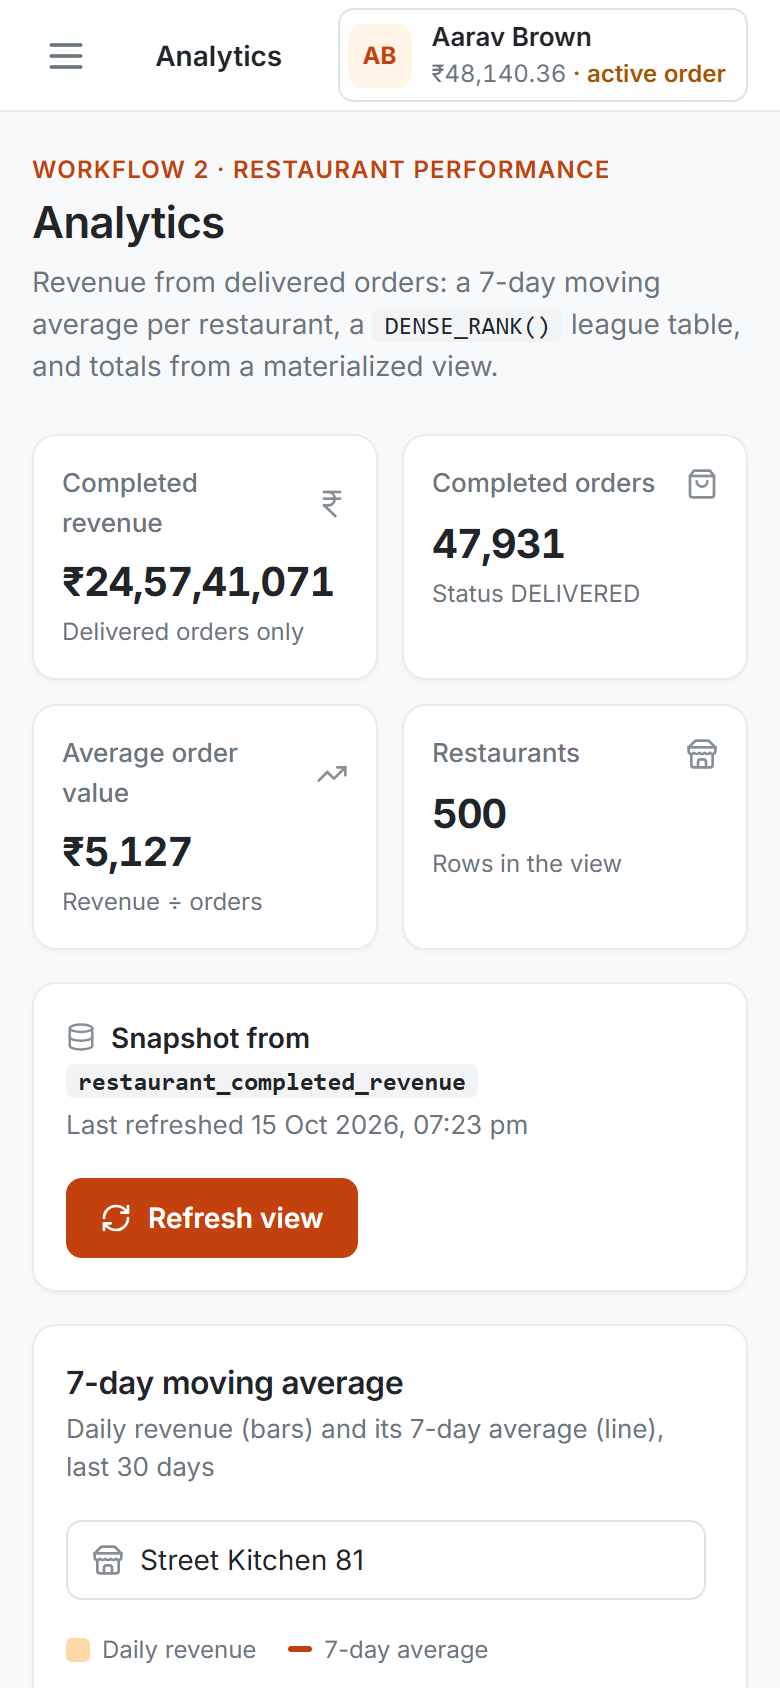
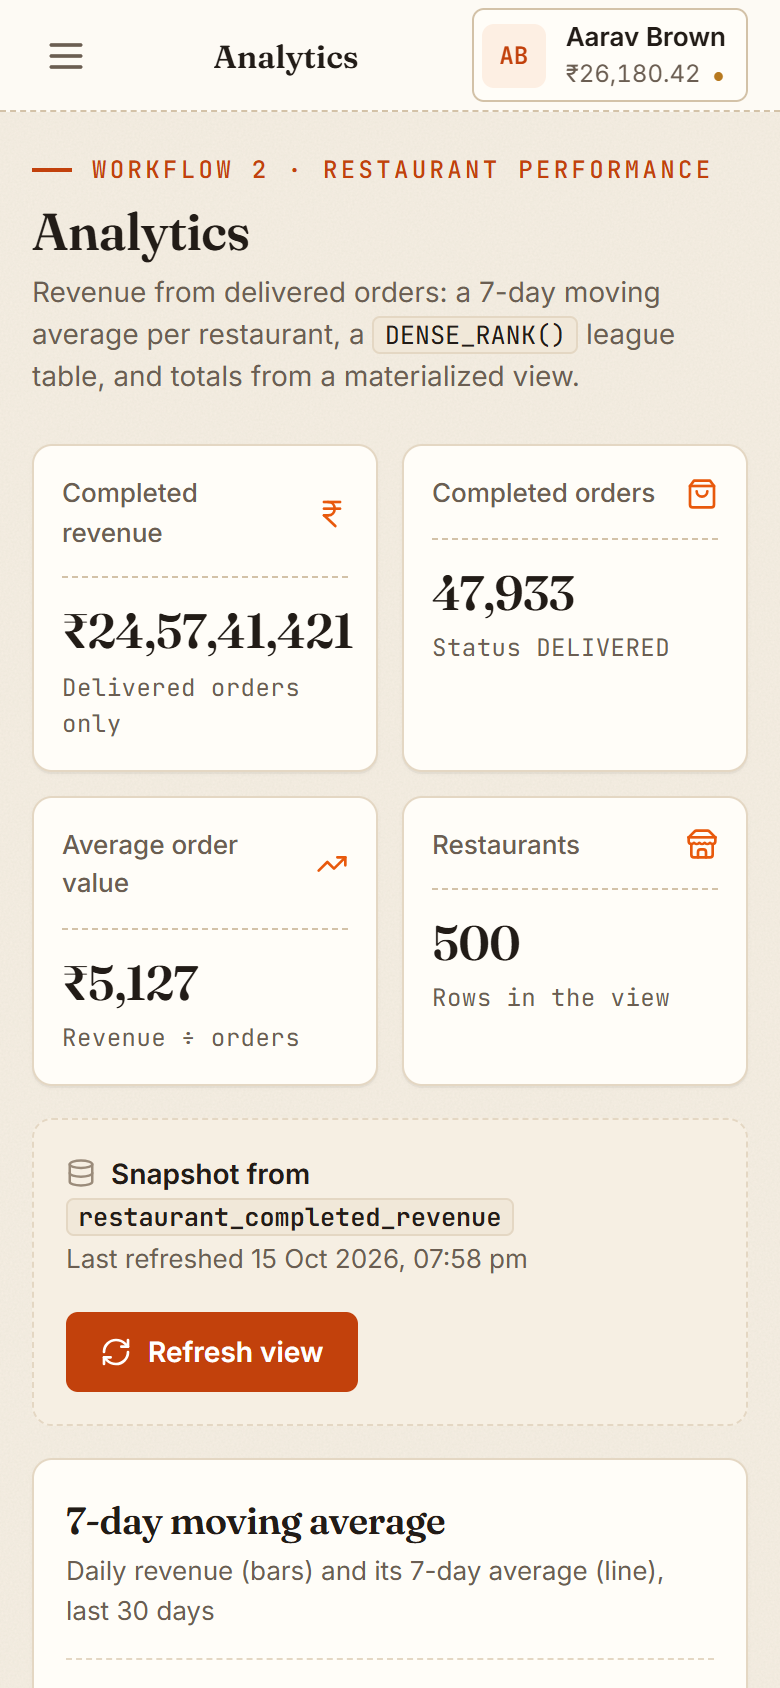
docs+ui: Kitchen Ticket style guide, screenshots, phone top-bar polish (Nisarg)
- style_guide.md rewritten for the Kitchen Ticket concept (palette, three
  type voices, motifs, motion, responsive rules)
- README: design summary, PAID/VOID gallery, phone shots, contribution
- 12 fresh screenshots captured with reduced motion (final frames)
- phones: board figures scale instead of breaking; top bar keeps one line
  for title and actor (active order shown as a dot)

diff --git a/web/src/kitchen.css b/web/src/kitchen.css
@@ -314,6 +314,15 @@ td { border-bottom-color: var(--border); }
 
 @media (max-width: 767px) {
   .date-stamp { display: none; }
+  /* Board figures shrink with the screen instead of breaking mid-number. */
+  .board .stat-value { font-size: clamp(20px, 6.2vw, 28px); white-space: nowrap; overflow-wrap: normal; }
+  /* Top bar on phones: one line each for title and actor; the active-order
+     note becomes a dot so the picker never grows taller than the bar. */
+  .breadcrumbs { min-width: 0; overflow: hidden; }
+  .breadcrumbs strong { overflow: hidden; text-overflow: ellipsis; white-space: nowrap; }
+  .actor-button .profile-copy span { white-space: nowrap; }
+  .actor-button .active-dot { font-size: 0; }
+  .actor-button .active-dot::after { content: '●'; font-size: 10px; margin-left: 6px; color: var(--warning); }
   .page-title-row h1 { font-size: 26px; }
   .stat-value { font-size: 24px; }
   .stamp.big { font-size: 17px; top: 14px; right: 14px; }

diff --git a/docs/design/style_guide.md b/docs/design/style_guide.md
@@ -1,87 +1,107 @@
-# Style Guide
+# Style Guide: "Kitchen Ticket"
 
-**Owner:** Nisarg Bhojani. The design system is plain CSS built on design tokens:
+**Owner:** Nisarg Bhojani · Spec: [2026-10-15-kitchen-ticket-design.md](2026-10-15-kitchen-ticket-design.md)
 
-- **`web/src/theme.css`** holds every token as a CSS custom property, and is the single source of truth.
-- **`web/src/theme.js`** mirrors the colour values for Recharts and Leaflet, which cannot read CSS variables.
-- **`web/src/styles.css`** (shell, shared components, Analytics/Map/Reviews) and **`web/src/screens.css`** (Browse, Place order, Wallet) use only the tokens.
+## Concept
 
-Mantine was planned at first and dropped: plain CSS kept the bundle small and needed no component rewrite. The UI upgrade spec is [2026-10-15-ui-upgrade-design.md](2026-10-15-ui-upgrade-design.md).
+**Every screen is a piece of restaurant paper.**
 
-## Colours
+| Screen | Paper it becomes |
+|---|---|
+| An order | A kitchen order ticket (KOT): notched, perforated, stamped PAID or VOID |
+| Wallet history | A bank passbook: ruled ledger, printed amounts, a red margin rule |
+| Analytics | The day's board: big printed figures and medals |
+| Driver map | Dispatch slips |
+| Menu | A printed menu card with dotted leaders |
 
-The palette follows Mantine's colour scale. Three values were adjusted so text passes WCAG AA (4.5:1).
+Every visual choice follows from the metaphor:
+- serif figures, because bills are printed
+- mono codes, because tickets come from a thermal printer
+- stamps, because the kitchen stamps orders
+- perforations, because tickets tear off
 
-| Token | Hex | Used for |
+## Files
+
+| File | Role |
+|---|---|
+| `web/src/theme.css` | Design tokens: the single source of truth |
+| `web/src/theme.js` | The same colours for Recharts and Leaflet (which can't read CSS variables) |
+| `web/src/styles.css`, `web/src/screens.css` | Layout and components |
+| `web/src/kitchen.css` | The concept layer: type roles, paper, motifs, motion, one signature moment per screen |
+| `web/scripts/check-contrast.mjs` | `npm run check:contrast`: fails if any text/background token pair is below 4.5:1 |
+
+## Colour
+
+| Token | Hex | Role |
 |---|---|---|
-| `--brand` | `#E8590C` | Accent fills: active nav marker, chart series, map origin and radius, focus ring |
-| `--brand-strong` | `#C2410C` | Primary buttons and orange text (5.2:1 on white; `#E8590C` is only 3.6:1) |
-| `--brand-soft` | `#FFF4E6` | Active nav item, selected table row, avatar |
-| `--success` / `-strong` / `-soft` | `#2F9E44` / `#1F7A35` / `#EBFBEE` | CREDIT, DELIVERED, successful checkout, dietary tags |
-| `--danger` / `-strong` / `-soft` | `#E03131` / `#C92A2A` / `#FFF5F5` | DEBIT, errors, insufficient balance, spice level |
-| `--warning` / `-strong` / `-soft` | `#F08C00` / `#A35200` / `#FFF9DB` | PREPARING, "already has an active order", star ratings |
-| `--info` / `-strong` / `-soft` | `#1971C2` / `#1864AB` / `#E7F5FF` | DELIVERING, drivers on the map |
-| `--text` | `#212529` | Body text |
-| `--text-muted` | `#6C757D` | Secondary text (4.7:1; the first draft's `#868E96` is 3.3:1 and failed) |
-| `--text-faint` | `#868E96` | Icons and decoration only, never text |
-| `--surface` / `--page` | `#FFFFFF` / `#F8F9FA` | Cards / page background |
-| `--border` | `#E9ECEF` | Card, table and input borders |
+| `--page` | `#F6EFE3` | Warm paper (page), with a 2 % grain |
+| `--surface` | `#FFFDF8` | Ticket stock (cards) |
+| `--hover` / `--border` / `--border-strong` | `#F1E8D9` / `#E4D7C3` / `#D3C2A8` | Tracks, rules, perforations |
+| `--text` | `#221C17` | Ink (14.7:1 on paper) |
+| `--text-muted` | `#6B5E52` | Secondary text (5.5:1 on paper) |
+| `--brand` / `--brand-strong` / `--brand-soft` | `#E8590C` / `#C2410C` / `#FDEFE3` | Saffron: accent, buttons and orange text, selected states |
+| `--success*` | `#2E7D32` / `#25672A` / `#E7F2E3` | Curry leaf: CREDIT, DELIVERED, PAID |
+| `--danger*` | `#B23A12` / `#9A3110` / `#FBE9E2` | Chili: DEBIT, errors, VOID |
+| `--warning*` | `#B7791F` / `#8A5A12` / `#FBF0D9` | Turmeric: PREPARING, star ratings |
+| `--info*` | `#2B4C7E` / `#22406B` / `#E5ECF5` | Indigo ink: DELIVERING, drivers |
+| `--gold` / `--silver` / `--bronze` | `#E6C25A` / `#CBD2D9` / `#D9A273` | Medal ranks 1–3 |
 
-**Status pairs:** each status uses its `-strong` colour for text on its `-soft` background, so every badge passes 4.5:1.
+Every `-strong` colour is used for text on its `-soft` fill. All pairs pass WCAG AA (checked by the script).
 
-- PREPARING = warning
-- DELIVERING = info
-- DELIVERED = success
-- DEBIT = danger
-- CREDIT = success
+## Type: three voices, each with a job
 
-## Typography
+| Voice | Font | Used for |
+|---|---|---|
+| Printed | **Fraunces** (variable serif, optical sizes) | Page titles, every big number and money on tickets, rating score, menu dishes |
+| Ticket printer | **JetBrains Mono** | Eyebrows, table headers, order codes, times, stamps, captions, date stamp |
+| Interface | **Inter** | Labels, body text, buttons, inputs |
 
-- **Font:** Inter (Google Fonts, free), fallback `system-ui, sans-serif`.
-- **Scale:**
-  - page title 24/600
-  - section title 18/600
-  - card title 16/600
-  - body 14/400
-  - table 13/400
-  - caption 12/500
-  - nothing smaller than 12 px
-- **Stat values:** 28/700 (22 on phones).
-- **Money:** `tabular-nums`, right-aligned in tables, formatted `₹1,234.50` (Indian digit grouping via `en-IN`).
+**Scale:**
+- page title 30 / 600 serif
+- board figures 40 (phone: up to 28)
+- stat figures 32
+- section 18–19
+- body 14, table 13
+- caption 12
+- nothing below 12 px
 
-## Spacing and shape
+## Motifs
 
-- **Spacing:** 8 px grid (`--space-1` to `--space-4` = 8/16/24/32).
-- **Radius:** `--radius` 8 px (inputs, buttons, badges) and `--radius-lg` 12 px (cards).
-- **Borders and shadows:** 1 px `--border`, almost no shadow. Only menus and drawers float, with `--shadow-pop`.
-- **Content width:** max 1440 px. Form controls are 40 px tall. Every focusable element shows an orange focus ring.
+- **Perforation:** dashed rules under card headings, inside stat cards and between ticket sections.
+- **Ticket notches:** half-circle cut-outs on both edges (CSS mask). Used on the order result, the dispatch slips and the brand mark.
+- **Rubber stamp:** mono caps in an outlined box. Order statuses and DEBIT/CREDIT in tables; large rotated PAID / VOID on the order result.
+- **Passbook rule:** a red double margin line before the amount columns in Wallet history.
+- **Dotted leaders:** run from each dish to its price on the menu card.
+- **Tear-off pad:** the sidebar and top bar edges are perforated.
 
-## Identity
+## Motion
 
-- **Logo:** a solid orange square holding a utensils icon, plus the "BiteStream" wordmark in Inter 600 with the tagline "Food delivery console".
-- **Charts:** orange bars and lines on light grey gridlines.
-- **Map:** an orange origin pin with an orange dashed 5 km circle; drivers are blue dots.
-- **Stat cards:** a small monochrome icon instead of coloured tiles.
+| Moment | Behaviour |
+|---|---|
+| Page enter | Sections rise 10 px and fade, staggered 40 ms |
+| Stat figures | Count up (`CountUp`, ease-out, 0.7 s); later changes count from the previous value |
+| Order result | The ticket prints out of a slot; the stamp lands 0.45 s later with a slight overshoot |
+| Map origin | Saffron pulse, 2 s loop |
+| Rows and slips | 1–2 px lift on hover |
+
+Under `prefers-reduced-motion: reduce` every animation lands on its final frame, and count-ups show the final value immediately.
 
 ## Responsive
 
 | Width | Layout |
 |---|---|
-| ≥ 1200 px | Sidebar (248 px) + content; 4 stat cards per row; split layouts side by side |
+| ≥ 1200 px | Sidebar plus content; 4 stat cards per row; the Analytics chart stays beside the ranking (sticky) |
 | 1024–1199 px | 2 stat cards per row; chart and table stack |
-| 768–1023 px | Sidebar becomes a 76 px icon rail; the map list moves below the map |
-| < 768 px | Sidebar hidden. A top bar has a burger button that opens the navigation as a drawer (Esc or a backdrop click closes it). Cards stack, tables scroll sideways, segmented tabs fill the width. No horizontal page scroll at 390 px. |
+| 768–1023 px | Icon-rail sidebar; map list below the map |
+| < 768 px | Burger drawer; board figures scale down; the top bar keeps one line for the title and one for the actor (active order shown as a dot); no horizontal scroll at 390 px |
 
-## Reusable components
+## Components
 
-| Component | File | Purpose |
-|---|---|---|
-| App shell, `Sidebar` | `App.jsx`, `components/Sidebar.jsx` | Navigation, brand, API status, phone drawer |
-| `ActorPicker` | `components/ActorPicker.jsx` | "Acting as" customer with wallet balance and active-order flag |
-| `RestaurantPicker` | `components/RestaurantPicker.jsx` | Searchable restaurant select used on Place order, Analytics, Map and Reviews |
-| `Panel`, `StatCard` | `components/Panel.jsx`, `components/StatCard.jsx` | Card with heading; big number + label |
-| `StatusBadge`, `ActionBadge` | `components/ui.jsx` | Order status and DEBIT/CREDIT pills |
-| `Pagination`, `SkeletonRows`, `Drawer`, `DetailList` | `components/ui.jsx` | Server-side paging, loading rows, record detail |
-| `EmptyState`, `ErrorBanner` | `components/ui.jsx` | Never a blank page; friendly error with Retry |
-| Segmented control | `.tabs` / `.tab` | Browse entity tabs, Reviews scope |
-| Menu accordion | `.menu-accordion` (Reviews) | Category → items → add-ons; optional fields only when present |
+| Component | Purpose |
+|---|---|
+| `StatCard` | A small receipt. Optional `countTo` and `format` count the figure up |
+| `CountUp` | Animated number that respects reduced motion |
+| `StatusBadge`, `ActionBadge` | Rendered as stamps |
+| `Panel` | Ticket-stock card with a perforated heading |
+| `RestaurantPicker`, `ActorPicker` | Searchable selects |
+| `Pagination`, `SkeletonRows`, `Drawer`, `DetailList`, `EmptyState`, `ErrorBanner` | Shared states; never a blank page |

diff --git a/README.md b/README.md
@@ -39,9 +39,11 @@ A web front end for the inherited **BiteStream** food-delivery backend (PostgreS
 
 **Demo user switching:** the header's **"Acting as"** picker chooses the customer (no login). It shows their wallet balance and whether they have an active order, and the choice is remembered across reloads.
 
-**Design:** one token-based design system (`web/src/theme.css`) following [docs/design/style_guide.md](docs/design/style_guide.md): warm orange brand, Inter, WCAG-AA text contrast, and a burger drawer on phones.
+**Design: "Kitchen Ticket".** Every screen is a piece of restaurant paper: an order prints as a kitchen order ticket stamped PAID or VOID, the wallet is a passbook, analytics is the day's board, drivers are dispatch slips, and the menu is a printed menu card. Paper-and-ink palette with kitchen status colours (WCAG AA, checked by `npm run check:contrast` in `web/`), Fraunces / Inter / JetBrains Mono, purposeful motion that respects reduced-motion settings, and a burger drawer on phones. See [docs/design/style_guide.md](docs/design/style_guide.md).
 
-![Place order: success with the trigger-written audit row](docs/screenshots/place_order_desktop.png)
+| Order placed (PAID) | Order refused (VOID) |
+|---|---|
+| ![Place order: success with the trigger-written audit row](docs/screenshots/place_order_desktop.png) | ![Place order: refused by the partial unique index](docs/screenshots/place_order_refused_desktop.png) |
 
 | Analytics | Live driver map |
 |---|---|
@@ -49,7 +51,7 @@ A web front end for the inherited **BiteStream** food-delivery backend (PostgreS
 | **Reviews & menus** | **Wallet history** |
 | ![Reviews & menus](docs/screenshots/reviews_menus_desktop.png) | ![Wallet history](docs/screenshots/wallet_history_desktop.png) |
 
-<img src="docs/screenshots/browse_mobile.png" alt="Browse on a phone" width="220"> <img src="docs/screenshots/analytics_mobile.png" alt="Analytics on a phone" width="220"> <img src="docs/screenshots/nav_drawer_mobile.png" alt="Navigation drawer on a phone" width="220">
+<img src="docs/screenshots/browse_mobile.png" alt="Browse on a phone" width="220"> <img src="docs/screenshots/analytics_mobile.png" alt="Analytics on a phone" width="220"> <img src="docs/screenshots/nav_drawer_mobile.png" alt="Navigation drawer on a phone" width="220"> <img src="docs/screenshots/reviews_mobile.png" alt="Reviews and menu on a phone" width="220">
 
 ## 2. Running it
 
@@ -261,6 +263,7 @@ Every change is marked `[Team 26]` in the code. The full reasoning and evidence 
         ├── context/          # "Acting as" customer
         ├── services/api.js   # API client
         ├── theme.css         # design tokens (colours, type, spacing); theme.js mirrors colours for charts/map
+        ├── kitchen.css       # "Kitchen Ticket" concept layer: type roles, motifs, motion, signature moments
         ├── styles.css        # shell, shared components, Analytics / Map / Reviews
         ├── screens.css       # Browse, Place order, Wallet history
         └── router.js         # hash routing
@@ -272,7 +275,7 @@ Team 26. The allocation sheet lists four members; **Jyotiraditya Kumar is no lon
 
 | Member | Design | Code | Documentation |
 |---|---|---|---|
-| **Nisarg Bhojani** | Users, wireframes, Figma design system, visual QA | Design-token system (`theme.css`, `theme.js`) and restyle of all six screens (`styles.css`, `screens.css`), phone navigation drawer; UI-upgrade data fixes: per-restaurant 7-day series and stored `refreshed_at` (Analytics), one row per driver around real restaurants (Map), Mongo seeder linked to PostgreSQL restaurants and menu accordion (Reviews & menus), with 9 integration tests | Style guide, [UI upgrade spec](docs/design/2026-10-15-ui-upgrade-design.md) and [plan](docs/design/2026-10-15-ui-upgrade-plan.md), screenshots, demo video |
+| **Nisarg Bhojani** | Users, wireframes, Figma design system, visual QA | "Kitchen Ticket" design system: tokens (`theme.css`, `theme.js`), concept layer (`kitchen.css`), `CountUp`, contrast checker, restyle of all six screens, phone navigation drawer; fixed the Advance button placing an unwanted order; UI-upgrade data fixes: per-restaurant 7-day series and stored `refreshed_at` (Analytics), one row per driver around real restaurants (Map), Mongo seeder linked to PostgreSQL restaurants and menu accordion (Reviews & menus), with 9 integration tests | Style guide, [UI upgrade spec](docs/design/2026-10-15-ui-upgrade-design.md) and [plan](docs/design/2026-10-15-ui-upgrade-plan.md), screenshots, demo video |
 | **Kodavali Sai** | `TODO` | API + screens: Analytics, Live driver map, Reviews & menus | `TODO` |
 | **Mohit Tripathi** | Wireframes for Browse / Place order / Wallet | Inherited-DB fixes (checkout procedure, status procedure, indexes, seeder), API + screens: Browse, Place order, Wallet history, "Acting as" picker, tests | Handover note, API endpoints, README |
 | Jyotiraditya Kumar | – | – | – (left the college) |
